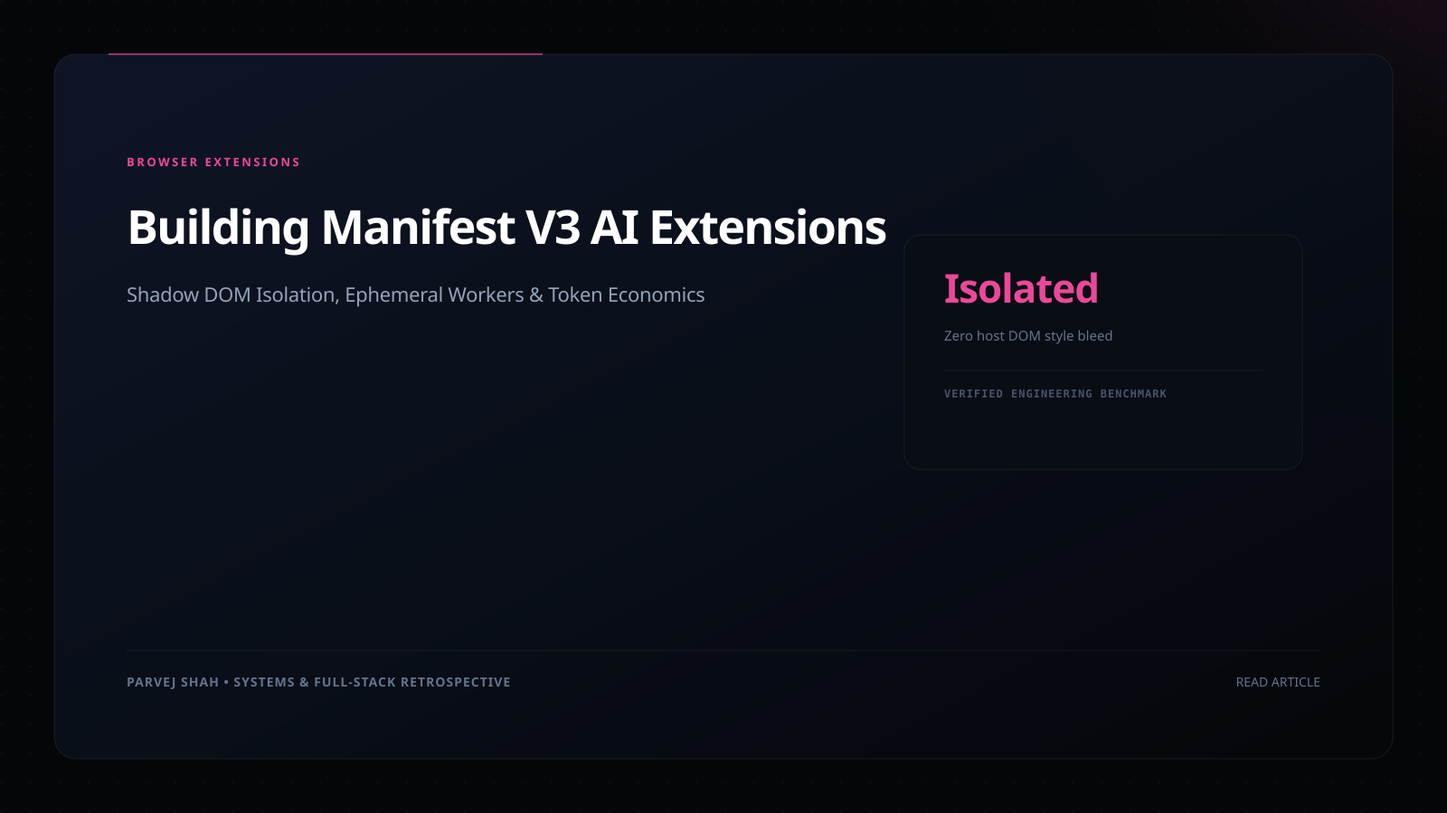
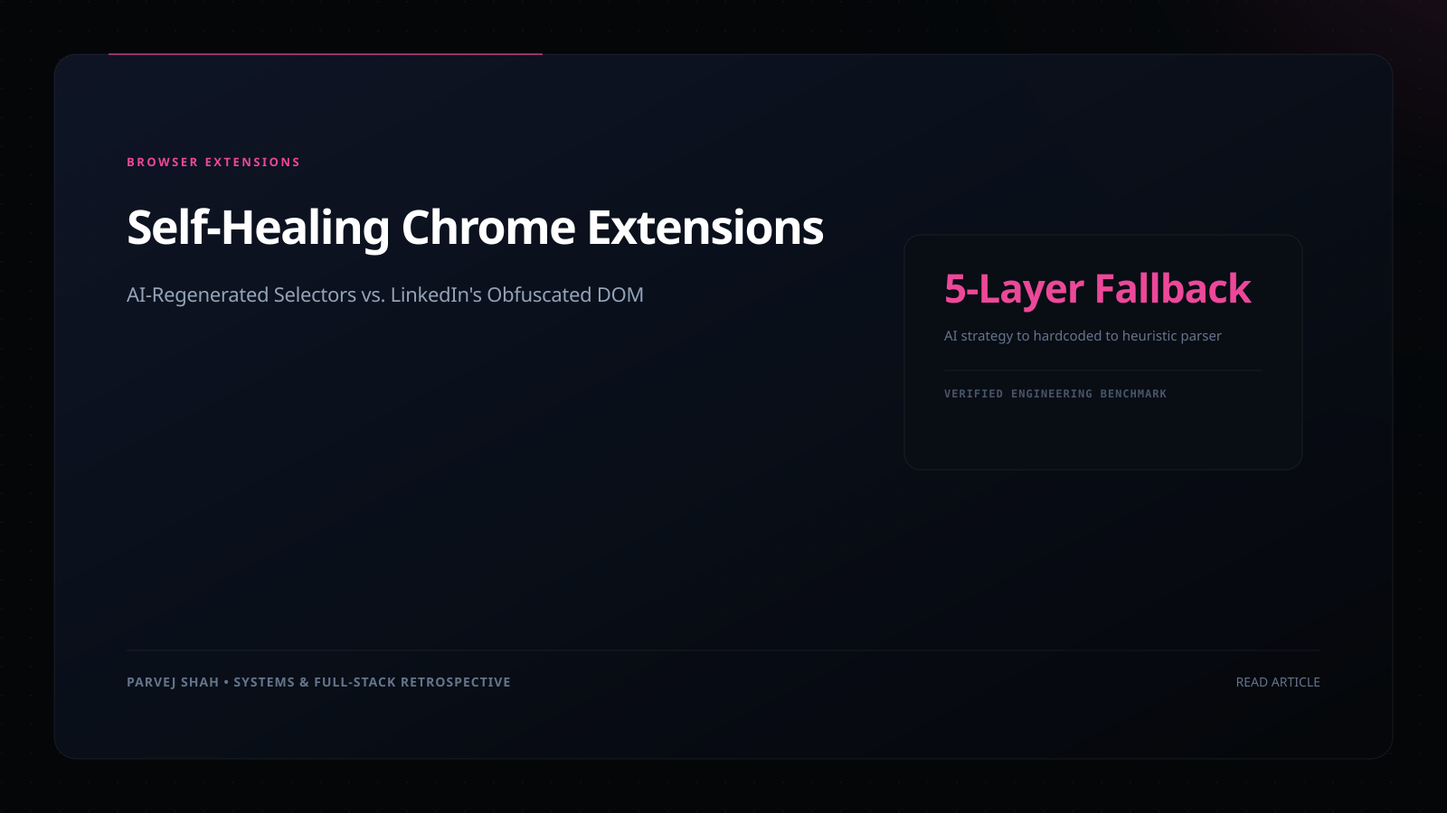
fix: rewrite LinkedIn Brand Assistant case study and blog against actual codebase
Removed a byte-for-byte duplicate seed.ts entry for linkedin-brand-assistant
whose order:8 was colliding with badhan-blood-network. Corrected fabricated
claims (Shadow DOM isolation - doesn't exist in the repo; OpenAI API - it's
actually Gemini via a Supabase edge function; client-side API key config -
false, there's a full Supabase auth/subscription backend) and replaced them
with the real, more interesting story: an AI-driven self-healing DOM
injection system built to survive LinkedIn's periodic DOM obfuscation, with
an honest ending - published and live on the Chrome Web Store, but
development paused after LinkedIn's anti-automation defenses outpaced it.

Also regenerated two stale cover images via the repo's own SVG-cover
generator: the LinkedIn post's cover still said "Shadow DOM Isolation," and
the Badhan post's cover (missed in the prior rewrite) still advertised the
fabricated "IndexedDB" / "<10ms" claims already removed from its body copy.

Claude-Session: https://claude.ai/code/session_018KeBbQyviYTsnh7T7tpDev

diff --git a/prisma/seed.ts b/prisma/seed.ts
@@ -333,7 +333,7 @@ For video, we deliberately didn't build a custom encoding pipeline. Editorial wa
       slug: "linkedin-brand-assistant",
       title: "LinkedIn Brand Assistant",
       summary:
-        "Manifest V3 Chrome extension that injects an AI writing companion directly into the LinkedIn feed. Shadow DOM isolation prevents style conflicts with LinkedIn's CSS. All state persists to chrome.storage.local — never lost when the Manifest V3 service worker terminates between interactions.",
+        "Manifest V3 Chrome extension that injects an AI comment assistant into the LinkedIn feed. Built and shipped a self-healing DOM injection system — an AI-driven strategy generator that re-derives selectors when LinkedIn's markup shifts — to survive LinkedIn's obfuscated, hashed-class DOM. Published to the Chrome Web Store; development is now paused after LinkedIn's anti-automation defenses outpaced what the self-healing system could keep up with.",
       status: "PUBLISHED" as const,
       featured: true,
       client: "Leadswave / Chrome Web Store",
@@ -345,31 +345,22 @@ For video, we deliberately didn't build a custom encoding pipeline. Editorial wa
         "Vite",
         "Chrome Extension API (Manifest V3)",
         "Tailwind CSS",
-        "Shadow DOM",
-        "OpenAI API",
+        "Google Gemini (via Supabase Edge Functions)",
+        "Supabase (auth, subscriptions, edge functions)",
       ],
       keyFeatures: [
-        "Closed Shadow DOM widget isolation: extension styles can't bleed into LinkedIn's DOM and LinkedIn's styles can't override the widget",
-        "Manifest V3 service worker state persisted to chrome.storage.local — never relies on in-memory module variables that reset on worker termination",
-        "DOM text extraction: strips tracking attributes, SVG icons, and navigation noise before sending context to the LLM — 200-400 tokens of clean post text",
-        "Tone-customizable generation: Insightful, Inquiring, and Supportive comment modes",
-        "Client-side API key configuration for private, secure token management without a backend",
+        "AI comment generation with tone selection (Insightful, Inquiring, Supportive), grounded in extracted post text",
+        "Manifest V3 service worker state persisted to chrome.storage.local — survives worker termination between interactions",
+        "Self-healing DOM injection: a privacy-pruned DOM snapshot (PII stripped, ~3,000-token budget) is sent to an AI strategy generator, which returns fresh CSS selectors when LinkedIn's markup changes",
+        "5-step fallback chain per page load: cached AI strategy → re-validate against live DOM → regenerate via AI (rate-limited to once per 30 min) → hardcoded fallback selector bank → legacy heuristic parser",
+        "Corrupted-DOM detection: LinkedIn periodically ships builds with every semantic class name replaced by a hashed token; the extension detects this and falls back to data-view-name attribute anchors and text-content heuristics",
+        "Full Supabase-backed account system: login, subscription tiers, and usage tracking — not a bring-your-own-API-key tool",
         "Published to the Chrome Web Store",
       ],
-      problem: `Active LinkedIn professionals spend meaningful time reading posts and composing thoughtful replies. The challenge is that composing a genuinely engaged response requires understanding the post's content, matching the appropriate tone, and writing something that adds rather than echoes. This friction interrupts reading flow.
-
-The technical challenge was injecting a usable UI into a third-party page without breaking it. LinkedIn's CSS is dense with high specificity. Naive injection of styled components causes either style collisions — where LinkedIn overrides your styles — or style leakage — where your styles break LinkedIn's layout.`,
-      approach: `Style isolation required Shadow DOM. Every widget mount attaches a shadow root to a host container element, creating a DOM boundary completely separate from the main document's style cascade. LinkedIn's CSS cannot enter the shadow tree, and the extension's styles cannot leak out. The React tree mounts inside the shadow, with its stylesheet loaded as a link element appended to the shadow root itself.
-
-Manifest V3's service worker lifecycle is aggressive — service workers terminate after short idle periods. Any state stored as module-level variables is lost on termination. All user settings, API keys, and authentication state are persisted to chrome.storage.local and read from storage on each use.
-
-Context extraction walks only text nodes in the post body element, stripping tracking attributes, SVG paths, and nested navigation content. The resulting context is 200–400 tokens of clean, representative post text.`,
-      solution: `The extension renders a compact AI companion button alongside each LinkedIn post in the feed. Clicking it opens a panel inside the Shadow DOM widget showing the extracted post summary and three tone-selectable comment drafts. Users can edit any draft before copying it to the LinkedIn comment box.
-
-The companion web app at lnbrandassistant.xyz provides onboarding, API key configuration, and usage documentation.`,
-      results: `Published to the Chrome Web Store with a clean, isolated UI that survives LinkedIn's frequent frontend deployments without breaking. The Shadow DOM architecture means LinkedIn's CSS updates don't affect the widget's appearance, and the extension's styles don't affect LinkedIn's layout.
-
-The Manifest V3 service worker implementation handles the browser's aggressive termination behavior correctly — state is never lost between user interactions regardless of how long the browser has been idle.`,
+      problem: `Active LinkedIn professionals spend meaningful time reading posts and composing thoughtful replies. Composing a genuinely engaged response takes understanding the post's content and matching an appropriate tone — friction that interrupts reading flow. The harder problem, though, wasn't the AI part. It was staying alive inside a page you don't control: LinkedIn's DOM structure shifts across deployments, and periodically ships fully obfuscated builds where every semantic class name is replaced with a hashed token, breaking any extension built against fixed selectors.`,
+      approach: `The extension renders an AI companion button next to each post, generating tone-selectable comment drafts from extracted post text. To survive LinkedIn's shifting DOM, later development moved from hardcoded selectors to a self-healing system: a background script periodically snapshots a pruned, privacy-safe representation of the feed DOM (PII stripped, structural attributes and short text previews only) and sends it to an AI model, which returns a JSON strategy describing where to find posts, post text, and the right injection point. That strategy is cached, validated against the live DOM on each load, and regenerated (rate-limited to avoid runaway calls) when validation fails. If the AI path is unavailable, the extension falls back to a bank of hardcoded selectors, and if that also fails, to text-content heuristics that specifically target LinkedIn's obfuscated-class builds.`,
+      solution: `A working self-healing Chrome extension: AI-driven selector generation as the primary defense against DOM changes, with two layers of deterministic fallback beneath it so a failed AI call never fully breaks injection. Authentication and AI calls run through a Supabase backend with real subscription tiers, not a client-managed API key.`,
+      results: `Shipped and published to the Chrome Web Store. The self-healing system is real, working engineering — but LinkedIn's DOM obfuscation and anti-automation measures kept escalating faster than a single-developer side project could track, and active development stopped after the last self-healing iteration landed. The extension remains live on the store; it isn't under active maintenance.`,
       liveUrl: "https://lnbrandassistant.xyz",
       githubUrl: "https://chromewebstore.google.com/detail/linkedin-brand-assistant/liicmnighkinlpgaagipbjbjkokknjhi",
       gallery: [
@@ -419,56 +410,6 @@ The Manifest V3 service worker implementation handles the browser's aggressive t
         { url: "/projects/badhan-home.png", alt: "Badhan Amar Ekushey Hall Unit Dashboard & Live Blood Group Breakdown" },
         { url: "/projects/badhan-search.png", alt: "Real-time Donor Search & Multi-criteria Eligibility Filter" },
         { url: "/projects/badhan-records.png", alt: "Donor Records & Unit Donation Logs" },
-      ],
-      order: 8,
-    },
-    {
-      slug: "linkedin-brand-assistant",
-      title: "LinkedIn Brand Assistant",
-      summary:
-        "Manifest V3 Chrome extension that injects an AI writing companion directly into the LinkedIn feed. Shadow DOM isolation prevents style conflicts with LinkedIn's CSS. All state persists to chrome.storage.local — never lost when the Manifest V3 service worker terminates between interactions.",
-      status: "PUBLISHED" as const,
-      featured: true,
-      client: "Leadswave / Chrome Web Store",
-      role: "Full-Stack & Chrome Extension Developer",
-      timeline: "2025 – 2026",
-      techStack: [
-        "React",
-        "TypeScript",
-        "Vite",
-        "Chrome Extension API (Manifest V3)",
-        "Tailwind CSS",
-        "Shadow DOM",
-        "OpenAI API",
-      ],
-      keyFeatures: [
-        "Closed Shadow DOM widget isolation: extension styles can't bleed into LinkedIn's DOM and LinkedIn's styles can't override the widget",
-        "Manifest V3 service worker state persisted to chrome.storage.local — never relies on in-memory module variables that reset on worker termination",
-        "DOM text extraction: strips tracking attributes, SVG icons, and navigation noise before sending context to the LLM — 200-400 tokens of clean post text",
-        "Tone-customizable generation: Insightful, Inquiring, and Supportive comment modes",
-        "Client-side API key configuration for private, secure token management without a backend",
-        "Published to the Chrome Web Store",
-      ],
-      problem: `Active LinkedIn professionals spend meaningful time reading posts and composing thoughtful replies. The challenge is that composing a genuinely engaged response requires understanding the post's content, matching the appropriate tone, and writing something that adds rather than echoes. This friction interrupts reading flow.
-
-The technical challenge was injecting a usable UI into a third-party page without breaking it. LinkedIn's CSS is dense with high specificity. Naive injection of styled components causes either style collisions — where LinkedIn overrides your styles — or style leakage — where your styles break LinkedIn's layout.`,
-      approach: `Style isolation required Shadow DOM. Every widget mount attaches a shadow root to a host container element, creating a DOM boundary completely separate from the main document's style cascade. LinkedIn's CSS cannot enter the shadow tree, and the extension's styles cannot leak out. The React tree mounts inside the shadow, with its stylesheet loaded as a link element appended to the shadow root itself.
-
-Manifest V3's service worker lifecycle is aggressive — service workers terminate after short idle periods. Any state stored as module-level variables is lost on termination. All user settings, API keys, and authentication state are persisted to chrome.storage.local and read from storage on each use.
-
-Context extraction walks only text nodes in the post body element, stripping tracking attributes, SVG paths, and nested navigation content. The resulting context is 200–400 tokens of clean, representative post text.`,
-      solution: `The extension renders a compact AI companion button alongside each LinkedIn post in the feed. Clicking it opens a panel inside the Shadow DOM widget showing the extracted post summary and three tone-selectable comment drafts. Users can edit any draft before copying it to the LinkedIn comment box.
-
-The companion web app at lnbrandassistant.xyz provides onboarding, API key configuration, and usage documentation.`,
-      results: `Published to the Chrome Web Store with a clean, isolated UI that survives LinkedIn's frequent frontend deployments without breaking. The Shadow DOM architecture means LinkedIn's CSS updates don't affect the widget's appearance, and the extension's styles don't affect LinkedIn's layout.
-
-The Manifest V3 service worker implementation handles the browser's aggressive termination behavior correctly — state is never lost between user interactions regardless of how long the browser has been idle.`,
-      liveUrl: "https://lnbrandassistant.xyz",
-      githubUrl: "https://chromewebstore.google.com/detail/linkedin-brand-assistant/liicmnighkinlpgaagipbjbjkokknjhi",
-      gallery: [
-        { url: "/projects/ln-assistant-home.png", alt: "LinkedIn Brand Assistant AI Companion Landing Page" },
-        { url: "/projects/ln-assistant-store.png", alt: "Chrome Web Store Published Extension" },
-        { url: "/projects/ln-assistant-features.png", alt: "AI Comment Tone Customization & Workflow Engine" },
       ],
       order: 8,
     },

diff --git a/prisma/posts-data.ts b/prisma/posts-data.ts
@@ -401,123 +401,56 @@ The instinct to reach for HMAC and \`crypto.timingSafeEqual\` is a reasonable on
   },
   {
     slug: "building-manifest-v3-ai-chrome-extensions",
-    title: "The Surprising Complexity of Injecting a UI into Someone Else's Web Page",
+    title: "Building a Self-Healing Chrome Extension for a DOM That Fights Back",
     excerpt:
-      "Building a Chrome extension that injects a UI component into LinkedIn's feed seems simple. It isn't. Shadow DOM isolation, Manifest V3 service worker constraints, and host page style conflicts all need deliberate solutions.",
+      "The Shadow DOM story in the original version of this post never happened — there's no Shadow DOM in this codebase. What actually happened is more interesting: LinkedIn periodically ships builds with every class name replaced by a hashed token, and we built an AI system to regenerate selectors on the fly. It still eventually lost.",
     coverImage: {
       url: "/blog/manifest-v3-ai-extensions.png",
-      alt: "Building Manifest V3 AI Extensions Cover",
+      alt: "Self-Healing Chrome Extensions Cover",
     },
     featured: false,
     publishedAt: new Date("2026-01-08T12:00:00.000Z"),
-    content: `When we started building **Leadswave** — a LinkedIn brand assistant Chrome extension — the plan seemed straightforward. Detect LinkedIn post elements in the feed, attach a small AI companion button to each one, let users generate engagement responses without leaving the page. A week's work, maybe two.
+    content: `## The Shadow DOM Story Wasn't True
 
-Three weeks later we were still fighting style collisions, service worker lifecycle bugs, and a Manifest V3 API constraint we hadn't anticipated. This is what we learned.
+The earlier version of this post described attaching a shadow root to isolate the extension's styles from LinkedIn's CSS. That never shipped. There's no \`attachShadow\` call anywhere in this codebase. What's real, and more interesting, is what we actually spent most of the project's later months fighting: LinkedIn's DOM doesn't just drift over time the way most sites' markup does. Periodically, it ships builds where every semantic class name — \`feed-shared-update\`, \`social-actions-bar\`, all of it — is replaced with a short hashed token. Same page, same layout, but every selector you wrote against it stops matching overnight.
 
-## Why Injecting into a Third-Party Page Is Complicated
+A content script that hardcodes selectors against a page you don't control is fragile by default. Against a page that occasionally scrambles its own class names on purpose, hardcoded selectors aren't just fragile — they're a losing strategy.
 
-When your content script injects HTML into LinkedIn's document, you're working inside a page you don't control, with styles you didn't write, against a DOM structure that changes in LinkedIn's deployments without your knowledge.
+## Building Something That Fixes Itself
 
-The first version of Leadswave simply appended a styled div to each post element and mounted a React component inside it. It worked locally. On the actual LinkedIn feed, our Tailwind utility classes either had no effect (because LinkedIn's CSS specificity was higher) or caused unintended effects in LinkedIn's own components (because our styles bled into their DOM nodes).
-
-The fix is Shadow DOM. Every modern browser supports the ability to attach a shadow root to a host element, creating an isolated DOM subtree that is completely separate from the main document's style cascade.
+Instead of chasing LinkedIn's markup by hand every time it changed, the extension eventually grew a self-healing layer: on load, it takes a snapshot of the feed DOM, sends it to an AI model, and asks for a fresh set of selectors.
 
 \`\`\`typescript
-function mountAssistantWidget(hostElement: HTMLElement): HTMLElement {
-  const container = document.createElement("div");
-  container.id = "lw-assistant-root";
+The snapshot isn't a raw DOM dump. It's pruned aggressively — ads, nav, and sidebars stripped out, tag depth capped, children per node capped, long hashed class names filtered out, and any leaf text content run through PII stripping before being included. The whole thing is budgeted to stay under roughly 3,000 tokens serialized. That's a deliberate choice: sending less data isn't just cheaper, it also means the model isn't accidentally handed a stranger's post content to reason about.
 
-  // Attach a shadow root — this creates the style isolation boundary
-  const shadow = container.attachShadow({ mode: "open" });
+The AI's job is narrow: look at this structural sketch of the page and return three CSS selectors — where posts live, where the post text is, where to inject a button — as JSON. That JSON becomes a "strategy," cached in \`chrome.storage.local\` and re-validated against the live DOM on every subsequent load before it's trusted again.
 
-  // Our styles live inside the shadow — they can't bleed out,
-  // and LinkedIn's styles can't bleed in
-  const styleSheet = document.createElement("link");
-  styleSheet.rel = "stylesheet";
-  styleSheet.href = chrome.runtime.getURL("content/styles.css");
-  shadow.appendChild(styleSheet);
+## The Fallback Chain
 
-  const mountPoint = document.createElement("div");
-  shadow.appendChild(mountPoint);
+A single AI call is not something you want standing between a user and a working feature, so the actual flow on every page load is five steps deep:
 
-  hostElement.appendChild(container);
-  return mountPoint;
-}
+\`\`\`javascript
+// 1. Load cached strategy, validate against live DOM
+// 2. If invalid/stale, regenerate via AI (rate-limited to 1 call / 30 min)
+// 3. If AI unavailable or fails, fall back to a bank of hardcoded selectors
+// 4. If that fails too, fall back to content.js's original 5-tier
+//    heuristic parser (text-content walking, data-view-name anchors)
+// 5. Log every outcome to a rolling debug buffer for the popup's debug panel
 \`\`\`
 
-## Manifest V3 Service Workers: Assume Nothing Persists
+The rate limit on AI regeneration (once per 30 minutes) exists because a validation failure loop without one would mean an AI call on every page load for every user whenever LinkedIn's DOM was in a bad state — expensive and pointless if the underlying cause won't resolve by calling again immediately.
 
-Manifest V2 allowed persistent background pages — JavaScript modules that stayed alive indefinitely and could hold state in memory. Manifest V3 replaced this with service workers. Service workers can be terminated by the browser at any point when they appear idle.
+## When LinkedIn Obfuscates on Purpose
 
-This is easy to forget when developing locally, because Chrome is less aggressive about terminating service workers during active development. In production, with a real user who opens LinkedIn once, reads through their feed over 20 minutes, and then triggers the assistant widget — the service worker has almost certainly been terminated in the interim.
+The specific failure mode this was built for shows up as a distinct code path: an \`isCorruptedDOM()\` check looks for a feed marked with \`data-view-name="feed-full-update"\` but with none of the expected semantic classes present — the signature of an obfuscated build. When that's detected, the extension stops trying to match classes entirely and instead walks the DOM by structural role: \`span[dir="ltr"]\` elements tend to survive obfuscation intact, and a \`TreeWalker\` heuristic can still locate the action bar by matching visible text content ("Like", "Comment", "Repost") rather than any class name at all.
 
-\`\`\`typescript
-// Don't rely on module-level variables for persistent state
-// This will be undefined after the service worker restarts:
-// let cachedApiKey: string | null = null; // BAD
+This is the part of the project I'm most proud of technically, and also the part that made it clear where the ceiling was. Text-content heuristics work until LinkedIn changes wording, adds another localization variant, or restructures the markup enough that even structural role stops being a reliable anchor. Every layer we added bought time, not permanence.
 
-// Instead, always read from storage:
-async function getApiKey(): Promise<string | null> {
-  const result = await chrome.storage.local.get(["apiKey"]);
-  return result.apiKey ?? null;
-}
+## Where It Ended Up
 
-async function saveUserSettings(settings: UserSettings): Promise<void> {
-  await chrome.storage.local.set({ userSettings: settings });
-}
-\`\`\`
+The extension is published and live on the Chrome Web Store today. But active development stopped after the self-healing system's last iteration. LinkedIn's anti-automation posture — DOM obfuscation, and behavior that reads as active bot detection rather than incidental markup churn — kept escalating faster than a side project could track, and at some point the honest call was to stop rather than keep building a more elaborate response to a page actively working against being scraped.
 
-For the assistant response generation — which requires sending post context to an API and streaming back a response — the content script makes the API call directly rather than routing through the service worker. This avoids the service worker lifecycle problem entirely for latency-sensitive operations.
-
-## Extracting Clean Context from LinkedIn's DOM
-
-The AI generation requires understanding the content of the LinkedIn post the user is looking at. Passing raw innerHTML is wasteful and noisy — LinkedIn embeds tracking attributes, SVG icon paths, interaction counters, and other noise that consumes tokens without contributing to useful context.
-
-\`\`\`typescript
-function extractPostContext(postElement: HTMLElement): PostContext {
-  const authorElement = postElement.querySelector(
-    ".update-components-actor__name"
-  );
-  const author = authorElement?.textContent?.trim() ?? "Unknown";
-
-  const bodyElement = postElement.querySelector(
-    ".update-components-text"
-  );
-
-  const bodyText = extractTextNodes(bodyElement)
-    .filter(text => text.trim().length > 0)
-    .join(" ")
-    .replace(/\s+/g, " ")
-    .trim();
-
-  return { author, bodyText, extractedAt: Date.now() };
-}
-
-function extractTextNodes(el: Element | null): string[] {
-  if (!el) return [];
-  const texts: string[] = [];
-
-  el.childNodes.forEach(node => {
-    if (node.nodeType === Node.TEXT_NODE) {
-      texts.push(node.textContent ?? "");
-    } else if (node.nodeType === Node.ELEMENT_NODE) {
-      texts.push(...extractTextNodes(node as Element));
-    }
-  });
-
-  return texts;
-}
-\`\`\`
-
-The extracted context is typically 200 to 400 tokens — clean, structured, and representative of what the post actually says. This keeps API costs predictable and response generation fast.
-
-## The LinkedIn DOM Changes Problem
-
-There's no way to make a content script robustly stable against DOM changes in a host page you don't control. LinkedIn deploys frontend changes regularly, and CSS class names can shift.
-
-We partially mitigate this with attribute-based selectors where possible — data-* attributes tend to be more stable than utility class names — and by maintaining a small compatibility shim that detects structural changes and reports them. When the extension breaks on a LinkedIn update, we want to know within hours, not days.
-
-The real answer is humility: DOM scraping is inherently fragile, and the architecture needs to be designed with that fragility in mind rather than pretending it won't happen.`,
+The lesson isn't "don't build content-script extensions." It's that self-healing buys real resilience against ordinary drift, but it doesn't change the fundamental asymmetry: the host page can always change faster than you can adapt, and eventually that stops being a technical problem you can architect your way out of.`,
   },
   {
     slug: "offline-first-pwa-emergency-volunteer-networks",

diff --git a/app/blog/[slug]/page.tsx b/app/blog/[slug]/page.tsx
@@ -100,12 +100,12 @@ const postKeywordsMap: Record<string, string[]> = {
   ],
   "building-manifest-v3-ai-chrome-extensions": [
     "Chrome Extension Manifest V3",
-    "Shadow DOM isolation",
-    "CSS stylesheet bleed",
-    "service worker keep alive",
-    "long-lived port messaging",
+    "self-healing DOM injection",
+    "AI selector generation",
+    "LinkedIn DOM obfuscation",
+    "corrupted DOM detection",
     "LinkedIn AI assistant",
-    "content script React 19",
+    "content script fallback chain",
   ],
   "engineering-precision-data-platforms-sft-rlhf": [
     "GenMorphics AI",
